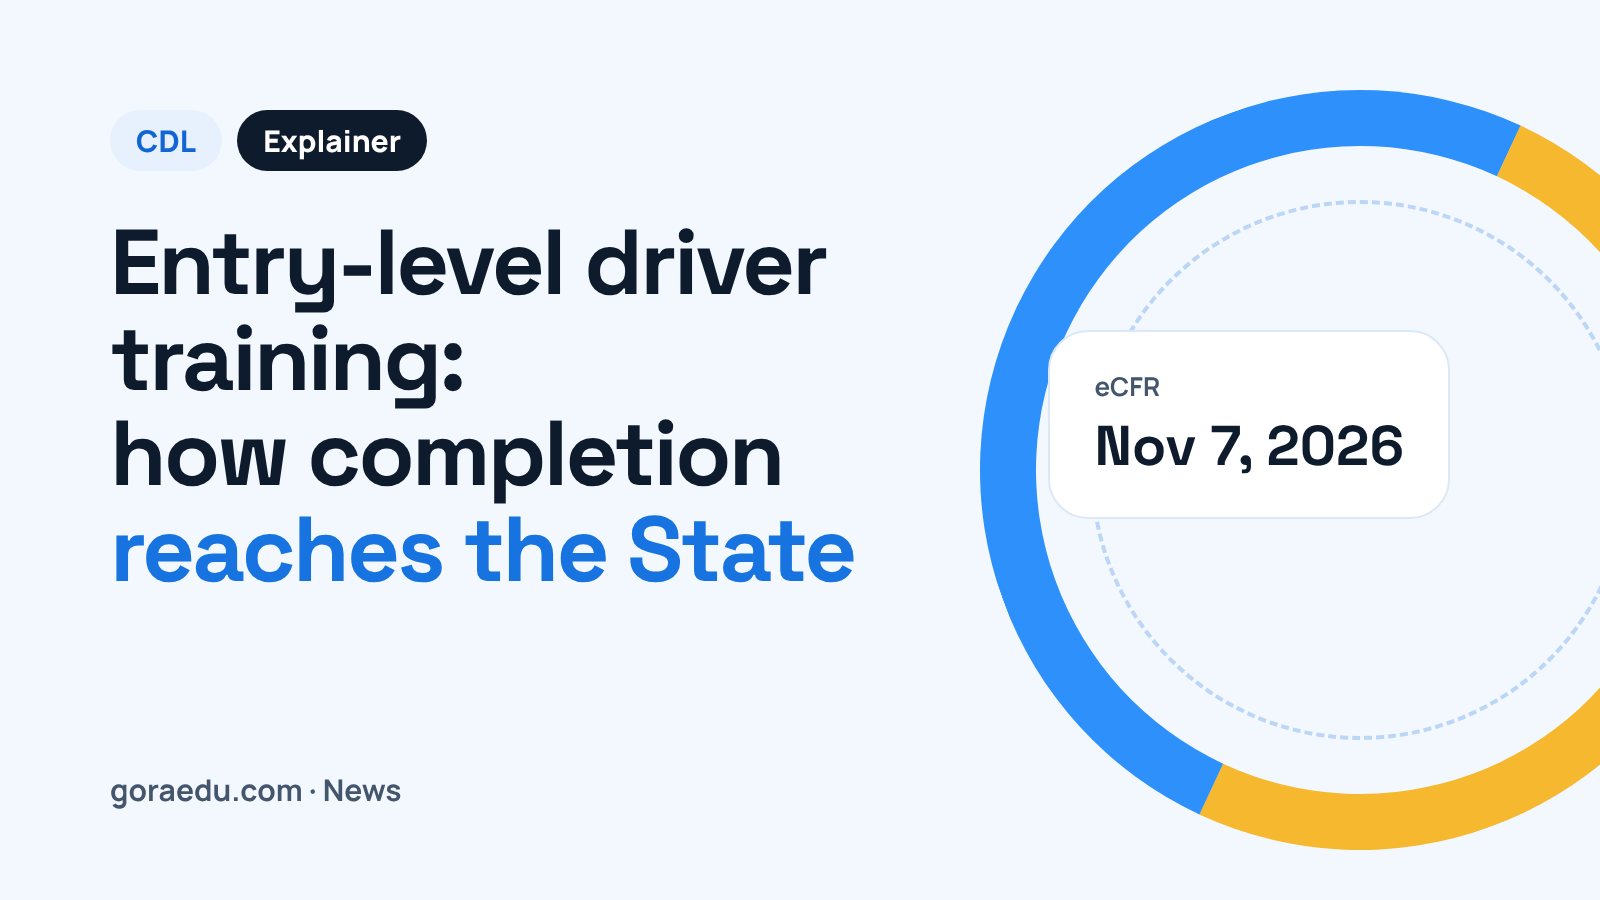
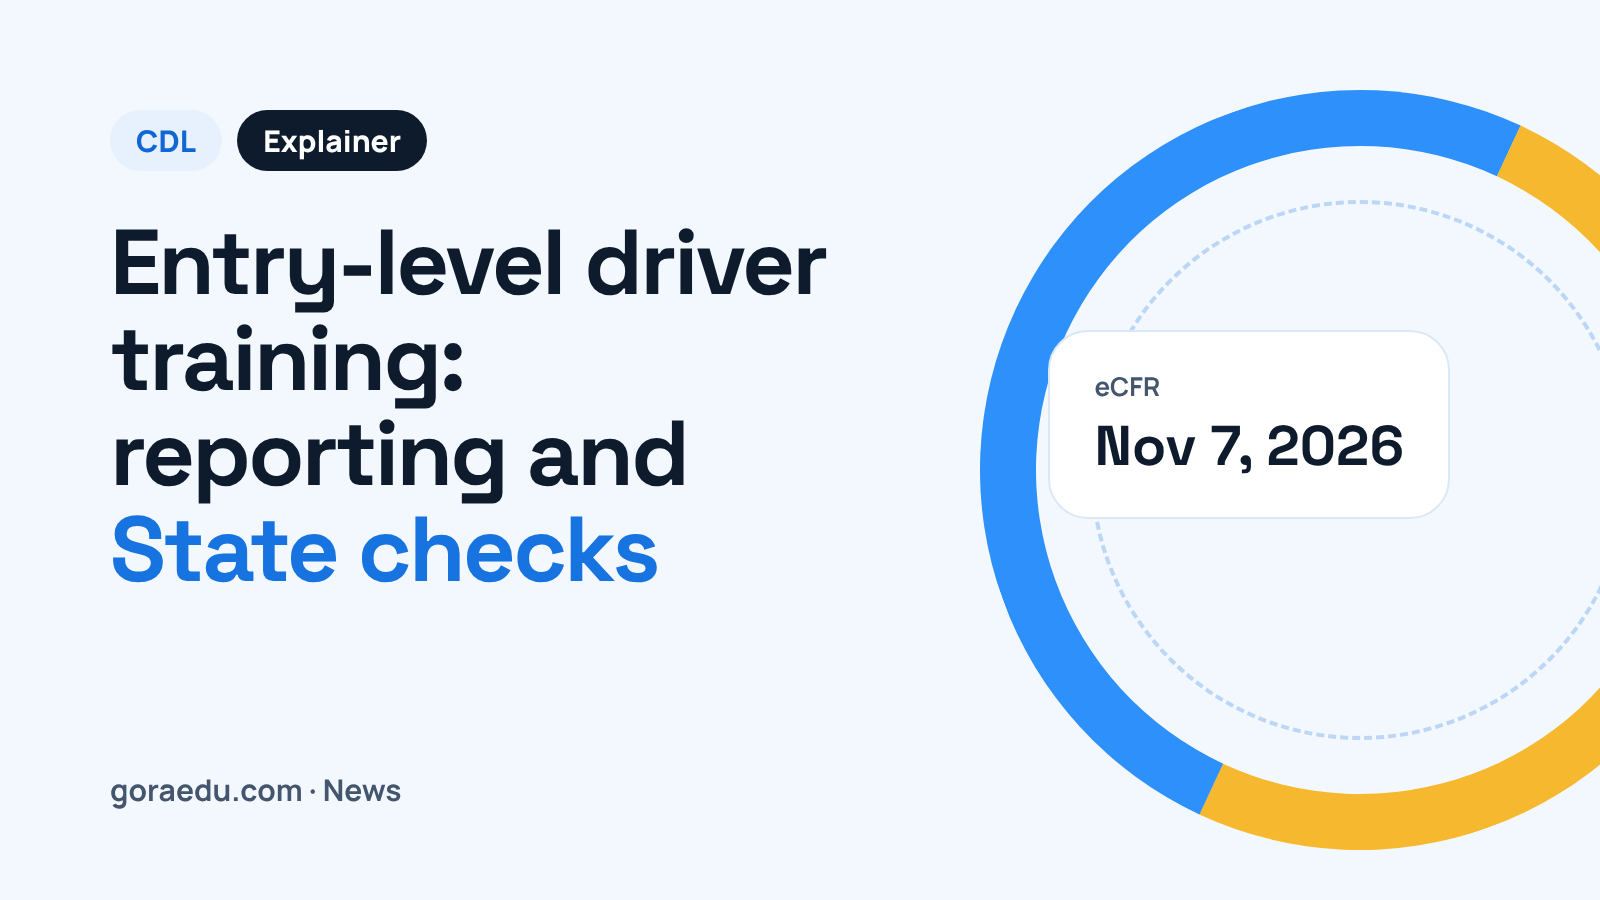
News: 2026-11-07 (0 rule changes, 2 explainers)
Claude-Session: https://claude.ai/code/session_012swFT2f9AvGyxjGUV3Fdha

Changed region(s): [[0.0625, 0.4667, 0.5312, 0.6533]]

diff --git a/content/news/how-cdl-entry-level-driver-training-is-reported-before-skills-test.md b/content/news/how-cdl-entry-level-driver-training-is-reported-before-skills-test.md
@@ -2,11 +2,11 @@
 title: "After CDL Entry-Level Driver Training: How Completion Is Reported Before Your Test"
 kind: explainer
 topic: "CDL"
-summary: "Under 49 CFR Part 380, your training provider must report your entry-level driver training through FMCSA's Training Provider Registry by midnight of the second business day, and under Part 383 the State checks that training before the test."
+summary: "Under 49 CFR Part 380, a provider on FMCSA's Training Provider Registry must transmit your entry-level driver training certification by midnight of the second business day after you complete it, and under Part 383, beginning February 7, 2022, the State may not give the covered skills test, or the H knowledge test for an upgrade, until the training is done."
 published: 2026-11-07
 image:
   src: /news/how-cdl-entry-level-driver-training-is-reported-before-skills-test.png
-  alt: "Card reading CDL, Explainer: Entry-level driver training, how completion reaches the State, eCFR, Nov 7, 2026"
+  alt: "Card reading CDL, Explainer: Entry-level driver training, reporting and State checks, eCFR, Nov 7, 2026"
   credit: goraedu
   license: Own work
 sources:
@@ -26,10 +26,10 @@ sources:
 
 Entry-level driver training (ELDT) has to be finished before certain CDL tests. But finishing the course is only
 half of it: the federal rules also say who reports the training, how fast, and what the State checks before it
-tests you. This explainer answers one question from the federal text: **after you finish ELDT, how does your
-completion get to the State before your test?** It does not cover State-specific procedures.
+tests you. This explainer answers one question from the federal text: **after you finish ELDT, who reports it, and
+what must the State confirm before your test?** It does not cover State-specific procedures.
 
-## Who the reporting rules apply to
+## Who must train with a registered provider
 
 Under 49 CFR 380.609, an individual who applies "for the first time, for a Class A or Class B CDL, or who upgrades
 to a Class A or B CDL" must complete training from a provider listed on the Training Provider Registry (TPR), and an
@@ -47,12 +47,12 @@ Section 380.603 lists who is outside the subpart:
 - individuals who obtained a CLP before February 7, 2022, "if they obtain a CDL before the CLP or renewed CLP
   expires." Individuals who obtain a CLP on or after February 7, 2022, "are required to comply with this subpart."
 
-## What has to be done before the training counts as complete
+## Training rules in Part 380, Subparts F and G
 
 - **Theory score.** Providers must use written assessments for the theory portion, and under 380.715(a) "The
   driver-trainee must receive an overall minimum score of 80 percent on the theory assessment."
 - **Behind-the-wheel (BTW) skills.** Under 380.715(b), instructors "must evaluate and document a driver-trainee's
-  proficiency in BTW skills" according to the curricula in the appendices to Part 380.
+  proficiency in BTW skills" in accordance with the curricula in appendices A through D of Part 380, as applicable.
 - **One-year window.** Under 380.603(c)(3), "Except for individuals seeking the H endorsement, individuals must
   complete the theory and BTW (range and public road) portions of entry-level driver training within one year of
   completing the first portion."
@@ -66,7 +66,7 @@ Section 380.717 puts the reporting duty on the training provider. After an indiv
 provider must, "by midnight of the second business day after the driver-trainee completes the training, electronically
 transmit training certification information through the TPR website." The record includes:
 
-- the driver-trainee's name, license, CLP or CDL number, and State of licensure;
+- the driver-trainee's name, driver's license, CLP or CDL number (as applicable), and State of licensure;
 - the CDL class and/or endorsement, and the type of training completed (theory and/or BTW);
 - the total clock hours spent to complete BTW training, as applicable;
 - the provider's name and its unique TPR identification number; and
@@ -76,22 +76,23 @@ transmit training certification information through the TPR website." The record
 
 Part 383 tells States what to do with that training before testing:
 
-- **Initial CDL.** Under 383.73(b)(11), the State must "not conduct a skills test of an applicant for a Class A or
+- **Initial CDL.** Under 383.73(b)(11), "Beginning on February 7, 2022," the State must "not conduct a skills test of an applicant for a Class A or
   Class B CDL, or a passenger (P) or school bus (S) endorsement until the State verifies electronically that the
   applicant completed the training prescribed in subpart F of part 380 of this subchapter."
-- **Upgrades.** Under 383.73(e)(9), the State must not conduct a skills test for an upgrade to a Class A or Class B
+- **Upgrades.** Under 383.73(e)(9), beginning on February 7, 2022, the State must not conduct a skills test for an upgrade to a Class A or Class B
   CDL, or a P or S endorsement, "or administer the knowledge test to an applicant for the hazardous materials (H)
   endorsement, unless the applicant has completed the training required by subpart F of part 380 of this
   subchapter."
 
-On the applicant's side, 383.71 says the training "must be administered by a provider listed on the Training
+On the applicant's side, 383.71 says that beginning on February 7, 2022, a person must complete the Subpart F
+training before taking those tests for the first time, and that it "must be administered by a provider listed on the Training
 Provider Registry."
 
 ## When training stops counting
 
 The provider's listing matters. Under 380.721, "If FMCSA removes a provider from the TPR, any training conducted
-after the removal date will be considered invalid." In cases of fraud or other criminal behavior in which
-driver-trainees "have knowingly participated," FMCSA "reserves the right, on a case-by-case basis, to retroactively
+after the removal date will be considered invalid." In instances of fraud or other criminal behavior by a training provider in
+which driver-trainees "have knowingly participated," FMCSA "reserves the right, on a case-by-case basis, to retroactively
 invalidate training conducted under this subpart."
 
 If FMCSA issues a notice of proposed removal, 380.723(b) says the provider "must notify current driver-trainees and

diff --git a/docs/news-log.md b/docs/news-log.md
@@ -1,3 +1,14 @@
 # Daily news log
 
 One entry per run (newest last): date, posts published (slug, kind, topic), documents skipped and why, sources that could not be reached.
+
+## 2026-11-07 (first run, started by hand)
+
+- Published: `does-epa-608-certification-expire-lost-card` (explainer, EPA 608);
+  `how-cdl-entry-level-driver-training-is-reported-before-skills-test` (explainer, CDL). Each checked by a separate
+  agent against eCFR and epa.gov text; fixes applied before publishing.
+- Rule changes: none. Federal Register search (RULE and PRORULE, 2026-10-01 to 2026-11-07) for every CFR part in
+  docs/daily-news.md returned no documents; eCFR showed only editorial (non-substantive) updates to 40 CFR 745.92,
+  745.238 and 763 Subpart E Appendix E. EPA pages: 2027 HFC allowance notice (Oct 6, 2026) skipped (notice for
+  producers/importers, no technician change).
+- Unreachable: osha.gov, faa.gov, fmcsa.dot.gov, nrc.gov (not on the allowlist); eCFR covers their rules.
